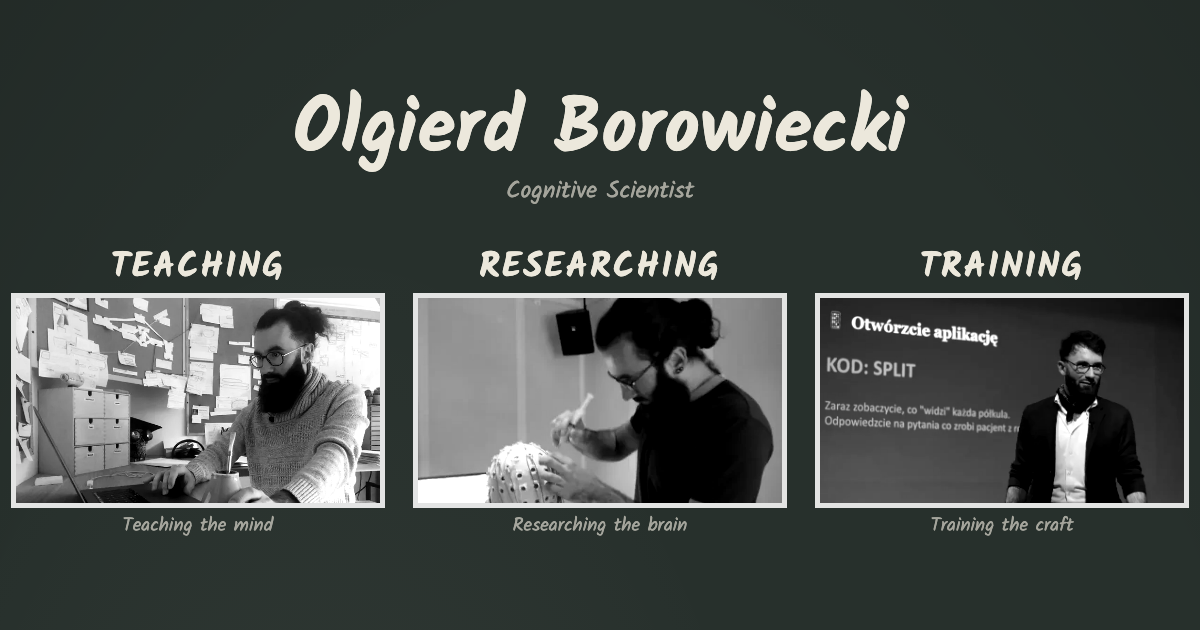
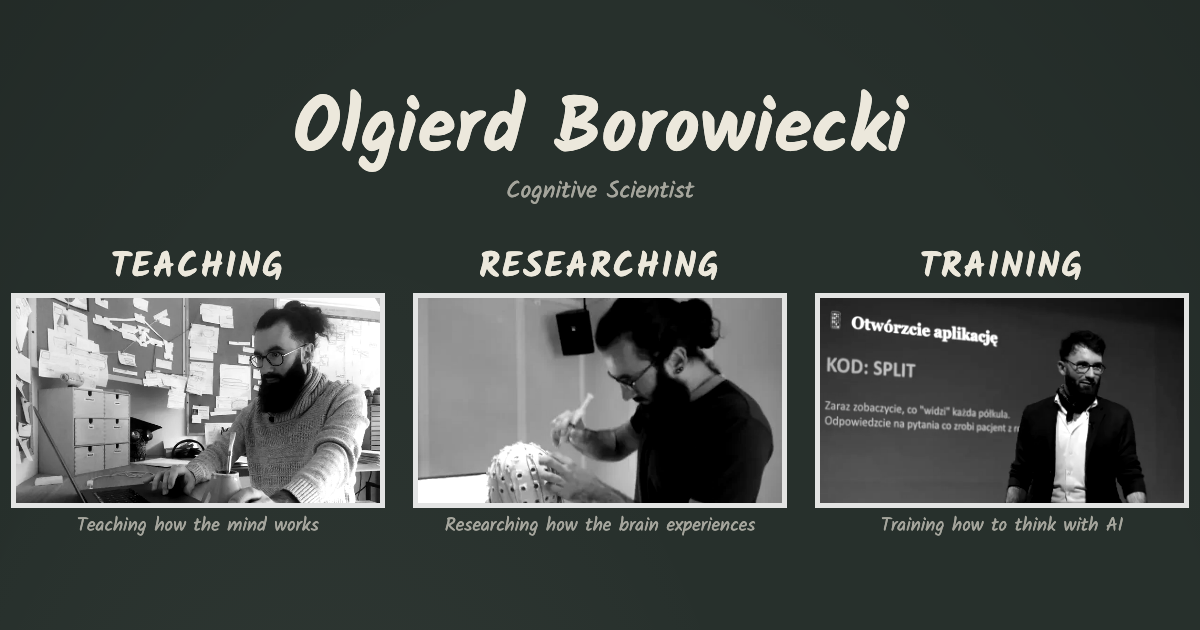
Subtitles: how the mind works, how the brain experiences, how to think with AI

Changed region(s): [[0.37, 0.8143, 0.6475, 0.8444], [0.74, 0.8143, 0.9558, 0.8444], [0.0617, 0.8143, 0.2775, 0.8444]]

diff --git a/public/index.html b/public/index.html
@@ -4,12 +4,12 @@
 <meta charset="utf-8">
 <meta name="viewport" content="width=device-width,initial-scale=1,viewport-fit=cover">
 <title>Olgierd Borowiecki</title>
-<meta name="description" content="Olgierd Borowiecki, cognitive scientist at the University of Białystok. Teaching how the mind works, researching how experience happens in the brain, training people to think with AI.">
+<meta name="description" content="Olgierd Borowiecki, cognitive scientist at the University of Białystok. Teaching how the mind works, researching how the brain experiences, training how to think with AI.">
 <link rel="canonical" href="https://olgierdborowiecki.com/">
 <meta property="og:type" content="website">
 <meta property="og:url" content="https://olgierdborowiecki.com/">
 <meta property="og:title" content="Olgierd Borowiecki · Cognitive Scientist">
-<meta property="og:description" content="Teaching how the mind works, researching how experience happens in the brain, training people to think with AI.">
+<meta property="og:description" content="Teaching how the mind works, researching how the brain experiences, training how to think with AI.">
 <meta property="og:image" content="https://olgierdborowiecki.com/og.png">
 <meta property="og:image:width" content="1200">
 <meta property="og:image:height" content="630">
@@ -107,9 +107,9 @@ html:not(.gl) .dwa{grid-template-columns:minmax(0,1fr)}
     <p class="kim">Cognitive Scientist</p>
   </header>
   <nav class="filary" aria-label="What I do">
-    <a class="filar" href="#teaching"><h2>Teaching</h2><img src="img/k-yerba.webp" width="693" height="390" alt="Olgierd at his laptop with a gourd of yerba mate, a cork board of cards behind him"><p>Teaching the mind</p></a>
-    <a class="filar" href="#researching"><h2>Researching</h2><img src="img/k-eeg-p.webp" width="520" height="292" alt="Olgierd applying gel to the EEG cap of a study participant"><p>Researching the brain</p></a>
-    <a class="filar" href="#training"><h2>Training</h2><img src="img/k-split.webp" width="771" height="434" alt="Olgierd in front of a split-brain experiment slide: open the app, code SPLIT"><p>Training the thinking</p></a>
+    <a class="filar" href="#teaching"><h2>Teaching</h2><img src="img/k-yerba.webp" width="693" height="390" alt="Olgierd at his laptop with a gourd of yerba mate, a cork board of cards behind him"><p>Teaching how the mind&nbsp;works</p></a>
+    <a class="filar" href="#researching"><h2>Researching</h2><img src="img/k-eeg-p.webp" width="520" height="292" alt="Olgierd applying gel to the EEG cap of a study participant"><p>Researching how the brain experiences</p></a>
+    <a class="filar" href="#training"><h2>Training</h2><img src="img/k-split.webp" width="771" height="434" alt="Olgierd in front of a split-brain experiment slide: open the app, code SPLIT"><p>Training how to think with&nbsp;AI</p></a>
   </nav>
 </main>
 
@@ -134,7 +134,7 @@ html:not(.gl) .dwa{grid-template-columns:minmax(0,1fr)}
 <section class="strona ks" id="researching" aria-labelledby="h-researching">
   <div class="dwa">
     <div class="tekst">
-      <div><h2 id="h-researching">Researching</h2><p class="linia">how experience happens in the brain</p></div>
+      <div><h2 id="h-researching">Researching</h2><p class="linia">how the brain experiences</p></div>
       <p>I study how the brain creates the experience of its model of the world. From studies in mice to fMRI in humans, I want to understand how biological neural networks work during experience. I use games in my studies, because games are metaphors for everyday life.</p>
       <div class="blok">
         <h3>recent publications</h3>
@@ -154,7 +154,7 @@ html:not(.gl) .dwa{grid-template-columns:minmax(0,1fr)}
 <section class="strona ks" id="training" aria-labelledby="h-training">
   <div class="dwa">
     <div class="tekst">
-      <div><h2 id="h-training">Training</h2><p class="linia">thinking with&nbsp;AI</p></div>
+      <div><h2 id="h-training">Training</h2><p class="linia">how to think with&nbsp;AI</p></div>
       <div class="blok">
         <p>I train people to structure a problem, use their terms precisely and turn both into prompts and tools.</p>
         <p>An AI model working in an environment of your words, your terms and your files becomes an agent, an extension of your mind. The agent is as good as your fluency in designing its environment.</p>
